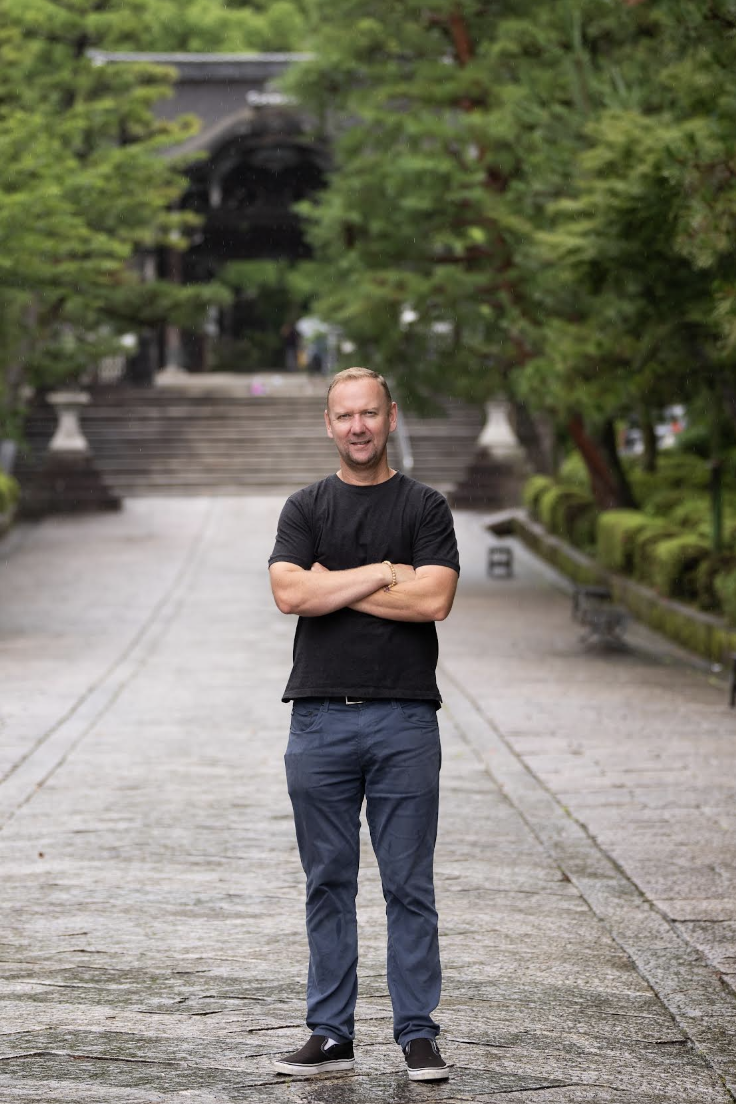
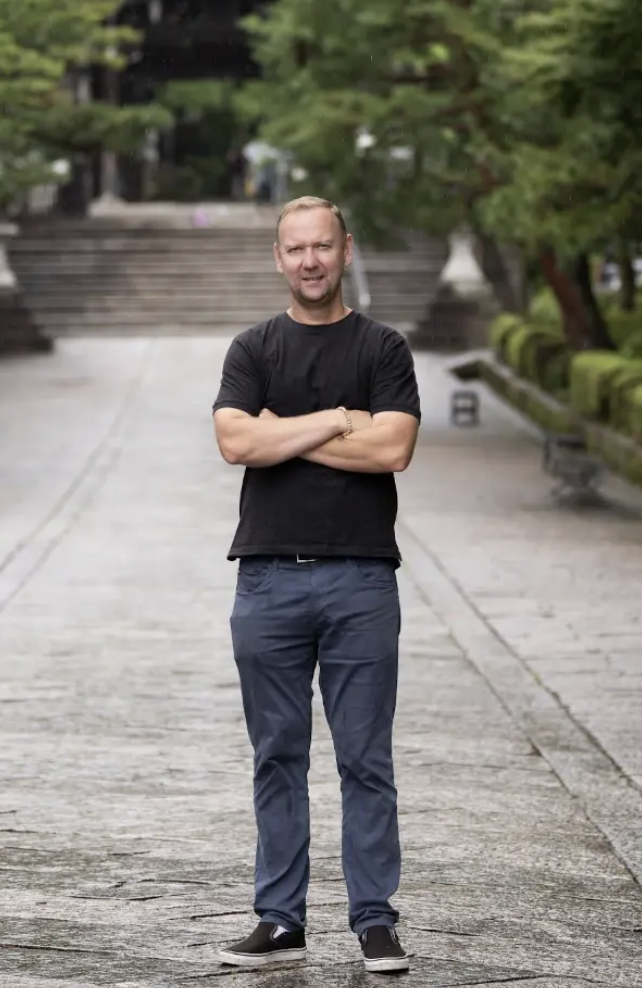
new

diff --git a/app/about/page.tsx b/app/about/page.tsx
@@ -109,6 +109,47 @@ Our leasing solutions allow businesses to spread the cost of equipment over time
         </div>
       </section>
 
+      {/* Team Members */}
+      <section className="max-w-6xl mx-auto py-20 px-4">
+        <motion.h2 
+          className="text-4xl font-bold mb-12 text-center text-indigo-dye"
+          initial={{ opacity: 0, y: 20 }}
+          whileInView={{ opacity: 1, y: 0 }}
+          transition={{ duration: 0.8 }}
+          viewport={{ once: true }}
+        >
+          Meet Our Team
+        </motion.h2>
+        <div className="grid grid-cols-1 md:grid-cols-2 lg:grid-cols-3 gap-10">
+          {teamMembers.map((member, index) => (
+            <motion.div 
+              key={index}
+              className="bg-white rounded-lg shadow-xl overflow-hidden h-full"
+              initial={{ opacity: 0, y: 20 }}
+              whileInView={{ opacity: 1, y: 0 }}
+              transition={{ duration: 0.5, delay: index * 0.1 }}
+              viewport={{ once: true }}
+            >
+              <div className="relative w-full h-[600px]">
+                <Image 
+                  src={member.image}
+                  alt={member.name}
+                  fill
+                  sizes="(max-width: 768px) 100vw, (max-width: 1200px) 50vw, 33vw"
+                  className="object-cover object-top"
+                  priority
+                />
+              </div>
+              <div className="p-6">
+                <h3 className="text-xl font-semibold mb-2 text-indigo-dye">{member.name}</h3>
+                <p className="text-md text-light-sea-green mb-4">{member.title}</p>
+                <p className="text-sm text-gray-700">{member.bio}</p>
+              </div>
+            </motion.div>
+          ))}
+        </div>
+      </section>
+
       {/* Core Values */}
       <section className="bg-white py-20 px-4">
         <div className="max-w-6xl mx-auto">
@@ -167,45 +208,6 @@ Our leasing solutions allow businesses to spread the cost of equipment over time
               </motion.div>
             ))}
           </div>
-        </div>
-      </section>
-
-      {/* Team Members */}
-      <section className="max-w-6xl mx-auto py-20 px-4">
-        <motion.h2 
-          className="text-4xl font-bold mb-12 text-center text-indigo-dye"
-          initial={{ opacity: 0, y: 20 }}
-          whileInView={{ opacity: 1, y: 0 }}
-          transition={{ duration: 0.8 }}
-          viewport={{ once: true }}
-        >
-          Meet Our Team
-        </motion.h2>
-        <div className="grid grid-cols-1 md:grid-cols-2 lg:grid-cols-3 gap-10">
-          {teamMembers.map((member, index) => (
-            <motion.div 
-              key={index}
-              className="bg-white rounded-lg shadow-xl overflow-hidden"
-              initial={{ opacity: 0, y: 20 }}
-              whileInView={{ opacity: 1, y: 0 }}
-              transition={{ duration: 0.5, delay: index * 0.1 }}
-              viewport={{ once: true }}
-            >
-              <div className="relative h-56 w-full">
-                <Image 
-                  src={member.image}
-                  alt={member.name}
-                  layout="fill"
-                  objectFit="cover"
-                />
-              </div>
-              <div className="p-6">
-                <h3 className="text-xl font-semibold mb-2 text-indigo-dye">{member.name}</h3>
-                <p className="text-md text-light-sea-green mb-4">{member.title}</p>
-                <p className="text-sm text-gray-700">{member.bio}</p>
-              </div>
-            </motion.div>
-          ))}
         </div>
       </section>
 
